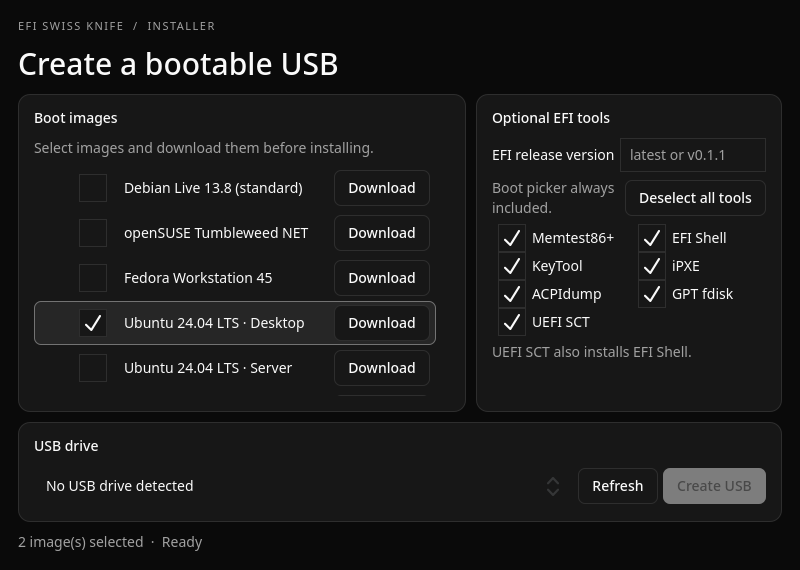
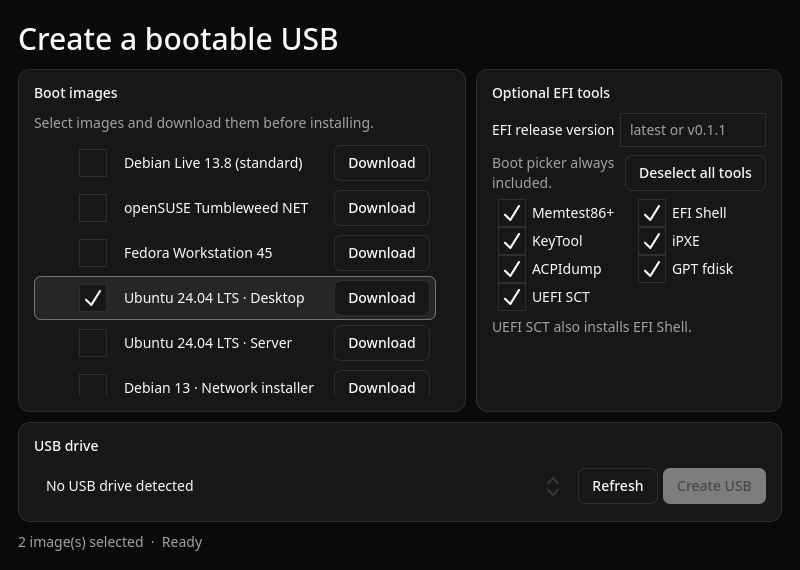
Remove the installer eyebrow heading

diff --git a/installer/src/ui.qml b/installer/src/ui.qml
@@ -93,11 +93,6 @@ QQC2.ApplicationWindow {
         anchors.margins: 18
         spacing: 10
 
-        Muted {
-            text: "EFI SWISS KNIFE  /  INSTALLER"
-            font.pixelSize: 11
-            font.letterSpacing: 1.5
-        }
         QQC2.Label {
             text: "Create a bootable USB"
             font.pixelSize: 30
